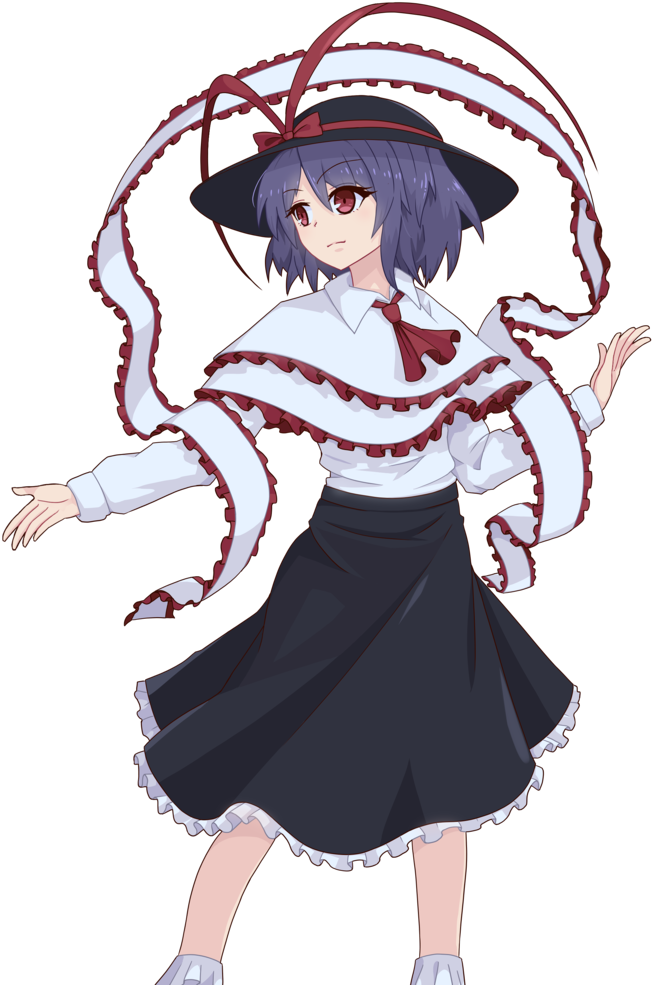
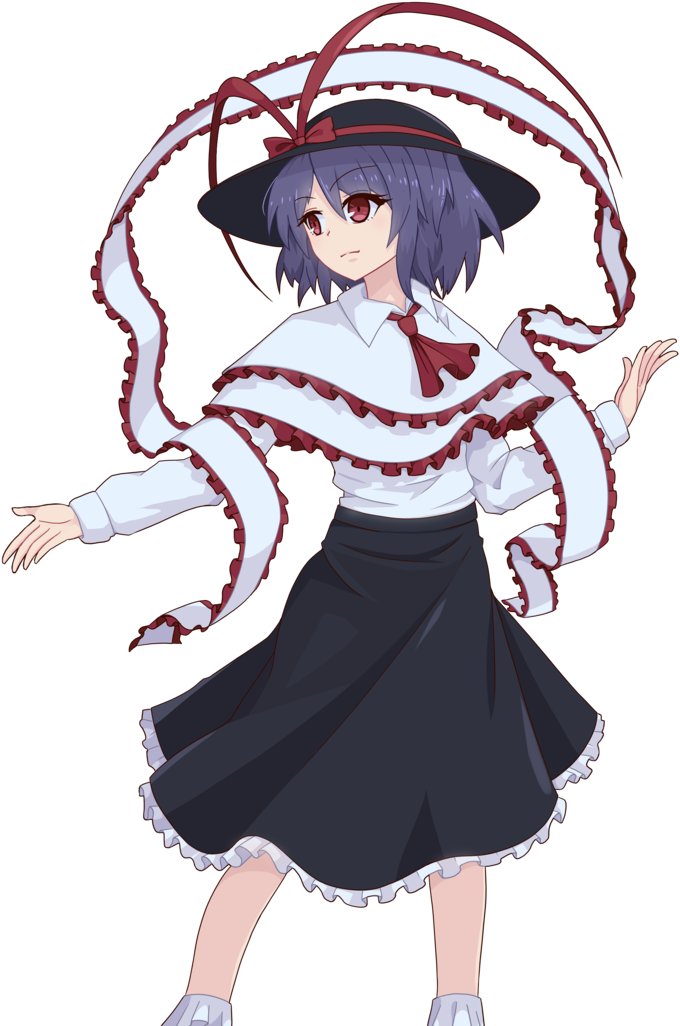
'alphamap' functionality; effects for wriggle and youmu portraits

diff --git a/scripts/gen-atlas.py b/scripts/gen-atlas.py
@@ -79,13 +79,16 @@ def write_sprite_def(dst, texture, region, overrides=None):
     update_text_file(dst, text)
 
 
-def write_texture_def(dst, texture, texture_fmt, global_overrides=None, local_overrides=None):
+def write_texture_def(dst, texture, texture_fmt, global_overrides=None, local_overrides=None, have_alphamap=False):
     dst.parent.mkdir(exist_ok=True, parents=True)
 
     text = (
         '# Autogenerated by the atlas packer, do not modify\n\n'
         f'source = res/gfx/{texture}.{texture_fmt}\n'
     )
+
+    if have_alphamap:
+        text += f'alphamap = res/gfx/{texture}.alphamap.{texture_fmt}\n'
 
     if global_overrides is not None:
         text += f'\n# -- Pasted from the global override file --\n\n{global_overrides.strip()}\n'
@@ -140,6 +143,14 @@ def get_override_file_name(basename):
     return f'{basename}.spr'
 
 
+def find_alphamap(basepath):
+    for fmt in texture_formats:
+        mpath = basepath.with_suffix(f'.alphamap.{fmt}')
+
+        if mpath.is_file():
+            return mpath
+
+
 def gen_atlas(overrides, src, dst, binsize, atlasname, tex_format=texture_formats[0], border=1, force_single=False, crop=True, leanify=True):
     overrides = Path(overrides).resolve()
     src = Path(src).resolve()
@@ -165,7 +176,7 @@ def gen_atlas(overrides, src, dst, binsize, atlasname, tex_format=texture_format
     rects = []
 
     for path in src.glob('**/*.*'):
-        if path.is_file() and path.suffix[1:].lower() in texture_formats:
+        if path.is_file() and path.suffix[1:].lower() in texture_formats and path.with_suffix('').suffix != '.alphamap':
             img = Image.open(path)
             sprite_name = path.relative_to(src).with_suffix('').as_posix()
             sprite_config_path = overrides / (get_override_file_name(sprite_name) + '.conf')
@@ -237,10 +248,10 @@ def gen_atlas(overrides, src, dst, binsize, atlasname, tex_format=texture_format
             # dstfile = temp_dst / f'{textureid}.{tex_format}'
             # NOTE: we always save PNG first and convert with an external tool later if needed.
             dstfile = temp_dst / f'{textureid}.png'
+            dstfile_alphamap = temp_dst / f'{textureid}.alphamap.png'
             print(dstfile)
 
             dstfile_meta = temp_dst / f'{textureid}.tex'
-            write_texture_def(dstfile_meta, textureid, tex_format, texture_global_overrides, texture_local_overrides)
 
             actual_size = [0, 0]
 
@@ -254,20 +265,31 @@ def gen_atlas(overrides, src, dst, binsize, atlasname, tex_format=texture_format
             else:
                 actual_size = (bin.width, bin.height)
 
-            composite_cmd = [
+            base_composite_cmd = [
                 'convert',
                 '-verbose',
                 '-size', f'{actual_size[0]}x{actual_size[1]}',
-                'xc:none',
             ]
+
+            composite_cmd = base_composite_cmd.copy() + ['xc:none']
+            alphamap_composite_cmd = None
 
             for rect in bin:
                 img_path, name = rect.rid
                 border = get_border(name)
+                alphamap_path = find_alphamap(img_path)
 
                 composite_cmd += [
                     str(img_path), '-geometry', '{:+}{:+}'.format(rect.x + border, rect.y + border), '-composite'
                 ]
+
+                if alphamap_path:
+                    if alphamap_composite_cmd is None:
+                        alphamap_composite_cmd = base_composite_cmd.copy() + ['xc:white']
+
+                    alphamap_composite_cmd += [
+                        str(alphamap_path), '-geometry', '{:+}{:+}'.format(rect.x + border, rect.y + border), '-composite'
+                    ]
 
                 override_path = overrides / get_override_file_name(name)
 
@@ -286,8 +308,16 @@ def gen_atlas(overrides, src, dst, binsize, atlasname, tex_format=texture_format
 
             composite_cmd += [str(dstfile)]
 
-            @executor.submit
-            def process(dstfile=dstfile):
+            write_texture_def(
+                dstfile_meta,
+                textureid,
+                tex_format,
+                texture_global_overrides,
+                texture_local_overrides,
+                have_alphamap=alphamap_composite_cmd is not None
+            )
+
+            def process(composite_cmd, dstfile):
                 subprocess.check_call(composite_cmd)
 
                 oldfmt = dstfile.suffix[1:].lower()
@@ -316,14 +346,18 @@ def gen_atlas(overrides, src, dst, binsize, atlasname, tex_format=texture_format
                 if leanify:
                     subprocess.check_call(['leanify', '-v', str(dstfile)])
 
-            futures.append(process)
+            futures.append(executor.submit(lambda: process(composite_cmd, dstfile)))
+
+            if alphamap_composite_cmd is not None:
+                alphamap_composite_cmd += [str(dstfile_alphamap)]
+                futures.append(executor.submit(lambda: process(alphamap_composite_cmd, dstfile_alphamap)))
 
         # Wait for subprocesses to complete.
         wait_for_futures(futures)
         executor.shutdown(wait=True)
 
         # Only now, if everything is ok so far, copy everything to the destination, possibly overwriting previous results
-        pattern = re.compile(rf'^atlas_{re.escape(atlasname)}_\d+.({"|".join(texture_formats + ["tex"])})$')
+        pattern = re.compile(rf'^atlas_{re.escape(atlasname)}_\d+(?:\.alphamap)?.({"|".join(texture_formats + ["tex"])})$')
         for path in dst.iterdir():
             if pattern.match(path.name):
                 path.unlink()

diff --git a/src/resource/texture.c b/src/resource/texture.c
@@ -249,12 +249,14 @@ static bool parse_format(const char *val, PixmapFormat *out) {
 
 typedef struct TextureLoadData {
 	Pixmap pixmap;
+	Pixmap pixmap_alphamap;
 	TextureParams params;
 } TextureLoadData;
 
 static void* load_texture_begin(const char *path, uint flags) {
 	const char *source = path;
 	char *source_allocated = NULL;
+	char *alphamap_allocated = NULL;
 
 	TextureLoadData ld = {
 		.params = {
@@ -287,6 +289,7 @@ static void* load_texture_begin(const char *path, uint flags) {
 
 		if(!parse_keyvalue_file_with_spec(path, (KVSpec[]) {
 			{ "source",     .out_str  = &source_allocated },
+			{ "alphamap",   .out_str  = &alphamap_allocated },
 			{ "filter_min", .out_str  = &str_filter_min },
 			{ "filter_mag", .out_str  = &str_filter_mag },
 			{ "wrap_s",     .out_str  = &str_wrap_s },
@@ -297,6 +300,7 @@ static void* load_texture_begin(const char *path, uint flags) {
 			{ NULL }
 		})) {
 			free(source_allocated);
+			free(alphamap_allocated);
 			return NULL;
 		}
 
@@ -336,6 +340,7 @@ static void* load_texture_begin(const char *path, uint flags) {
 
 		if(!format_ok) {
 			free(source_allocated);
+			free(alphamap_allocated);
 			log_error("%s: bad or unsupported pixel format specification", path);
 			return NULL;
 		}
@@ -344,15 +349,32 @@ static void* load_texture_begin(const char *path, uint flags) {
 	if(!pixmap_load_file(source, &ld.pixmap)) {
 		log_error("%s: couldn't load texture image", source);
 		free(source_allocated);
+		free(alphamap_allocated);
+		return NULL;
+	}
+
+	if(alphamap_allocated && !pixmap_load_file(alphamap_allocated, &ld.pixmap_alphamap)) {
+		log_error("%s: couldn't load texture alphamap", alphamap_allocated);
+		free(source_allocated);
+		free(alphamap_allocated);
 		return NULL;
 	}
 
 	free(source_allocated);
+	free(alphamap_allocated);
 
-	if(r_supports(RFEAT_TEXTURE_BOTTOMLEFT_ORIGIN)) {
-		pixmap_flip_to_origin_inplace(&ld.pixmap, PIXMAP_ORIGIN_BOTTOMLEFT);
-	} else {
-		pixmap_flip_to_origin_inplace(&ld.pixmap, PIXMAP_ORIGIN_TOPLEFT);
+	PixmapOrigin org = r_supports(RFEAT_TEXTURE_BOTTOMLEFT_ORIGIN) ? PIXMAP_ORIGIN_BOTTOMLEFT : PIXMAP_ORIGIN_TOPLEFT;
+
+	pixmap_flip_to_origin_inplace(&ld.pixmap, org);
+
+	if(ld.pixmap_alphamap.data.untyped) {
+		if(PIXMAP_FORMAT_DEPTH(ld.pixmap_alphamap.format) > 8) {
+			pixmap_convert_inplace_realloc(&ld.pixmap_alphamap, PIXMAP_FORMAT_R16);
+		} else {
+			pixmap_convert_inplace_realloc(&ld.pixmap_alphamap, PIXMAP_FORMAT_R8);
+		}
+
+		pixmap_flip_to_origin_inplace(&ld.pixmap_alphamap, org);
 	}
 
 	override_format = override_format ? override_format : ld.pixmap.format;
@@ -374,7 +396,7 @@ static void* load_texture_begin(const char *path, uint flags) {
 	return memdup(&ld, sizeof(ld));
 }
 
-static Texture* texture_post_load(Texture *tex) {
+static Texture* texture_post_load(Texture *tex, Texture *alphamap) {
 	// this is a bit hacky and not very efficient,
 	// but it's still much faster than fixing up the texture on the CPU
 
@@ -393,8 +415,17 @@ static Texture* texture_post_load(Texture *tex) {
 	params.mipmap_mode = TEX_MIPMAP_AUTO;
 	r_texture_set_filter(tex, TEX_FILTER_NEAREST, TEX_FILTER_NEAREST);
 	fbo_tex = r_texture_create(&params);
+
 	r_shader("texture_post_load");
 	r_uniform_sampler("tex", tex);
+
+	if(alphamap) {
+		r_uniform_sampler("alphamap", alphamap);
+		r_uniform_int("have_alphamap", 1);
+	} else {
+		r_uniform_int("have_alphamap", 0);
+	}
+
 	r_mat_push();
 	r_mat_identity();
 	r_mat_mode(MM_PROJECTION);
@@ -435,11 +466,30 @@ static void* load_texture_end(void *opaque, const char *path, uint flags) {
 	r_texture_set_debug_label(texture, basename);
 	r_texture_fill(texture, 0, &ld->pixmap);
 	free(ld->pixmap.data.untyped);
+
+	Texture *alphamap = NULL;
+
+	if(ld->pixmap_alphamap.data.untyped) {
+		TextureParams p = ld->params;
+		p.type = PIXMAP_FORMAT_DEPTH(ld->pixmap_alphamap.format) > 8 ? TEX_TYPE_R_16 : TEX_TYPE_R_8;
+		alphamap = r_texture_create(&p);
+		const char suffix[] = " alphamap";
+		char buf[strlen(basename) + sizeof(suffix)];
+		snprintf(buf, sizeof(buf), "%s%s", basename, suffix);
+		r_texture_set_debug_label(alphamap, buf);
+		r_texture_fill(alphamap, 0, &ld->pixmap_alphamap);
+		free(ld->pixmap_alphamap.data.untyped);
+	}
+
 	free(ld);
 
-	texture = texture_post_load(texture);
+	texture = texture_post_load(texture, alphamap);
 	r_texture_set_debug_label(texture, basename);
 	free(basename);
+
+	if(alphamap) {
+		r_texture_destroy(alphamap);
+	}
 
 	return texture;
 }

diff --git a/resources/00-taisei.pkgdir/gfx/atlas_portraits_0.tex b/resources/00-taisei.pkgdir/gfx/atlas_portraits_0.tex
@@ -1,6 +1,7 @@
 # Autogenerated by the atlas packer, do not modify
 
 source = res/gfx/atlas_portraits_0.webp
+alphamap = res/gfx/atlas_portraits_0.alphamap.webp
 
 # -- Pasted from the global override file --
 
